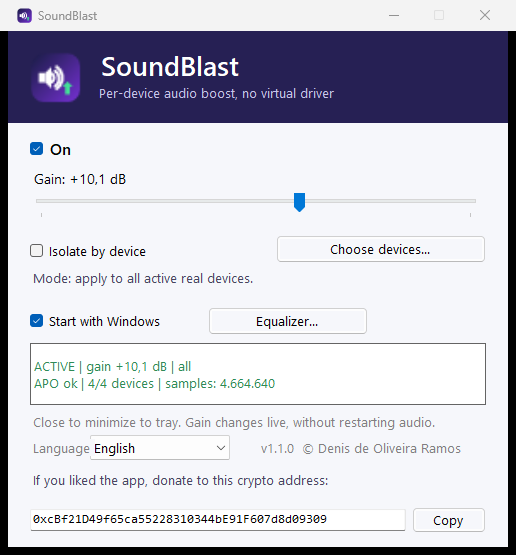
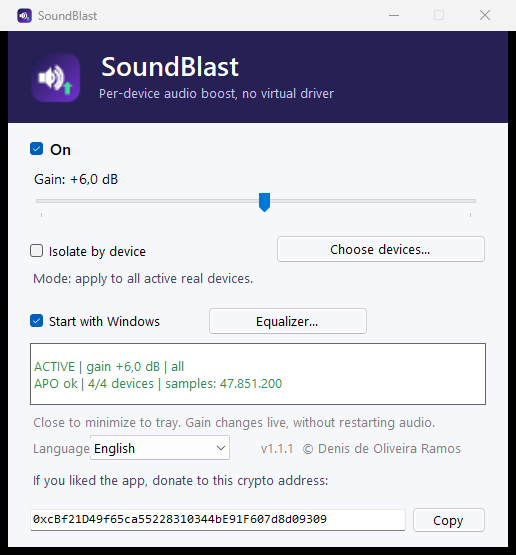
SoundBlast 1.1.1: no audio restart on launch (fix browser renderer error)

diff --git a/README.md b/README.md
@@ -5,7 +5,7 @@
 [English](README.md) · [Português](README.pt-BR.md) · [Español](README.es.md)
 
 ![Platform](https://img.shields.io/badge/platform-Windows%2010%2F11%20x64-0078D6?style=flat-square)
-![Version](https://img.shields.io/badge/version-1.1.0-2ea44f?style=flat-square)
+![Version](https://img.shields.io/badge/version-1.1.1-2ea44f?style=flat-square)
 ![License](https://img.shields.io/badge/license-Proprietary-red?style=flat-square)
 
 <p align="center">

diff --git a/README.es.md b/README.es.md
@@ -5,7 +5,7 @@
 [English](README.md) · [Português](README.pt-BR.md) · **Español**
 
 ![Plataforma](https://img.shields.io/badge/platform-Windows%2010%2F11%20x64-0078D6?style=flat-square)
-![Versión](https://img.shields.io/badge/version-1.1.0-2ea44f?style=flat-square)
+![Versión](https://img.shields.io/badge/version-1.1.1-2ea44f?style=flat-square)
 ![Licencia](https://img.shields.io/badge/license-Proprietary-red?style=flat-square)
 
 <p align="center">

diff --git a/README.pt-BR.md b/README.pt-BR.md
@@ -5,7 +5,7 @@
 [English](README.md) · **Português** · [Español](README.es.md)
 
 ![Plataforma](https://img.shields.io/badge/platform-Windows%2010%2F11%20x64-0078D6?style=flat-square)
-![Versão](https://img.shields.io/badge/version-1.1.0-2ea44f?style=flat-square)
+![Versão](https://img.shields.io/badge/version-1.1.1-2ea44f?style=flat-square)
 ![Licença](https://img.shields.io/badge/license-Proprietary-red?style=flat-square)
 
 <p align="center">
